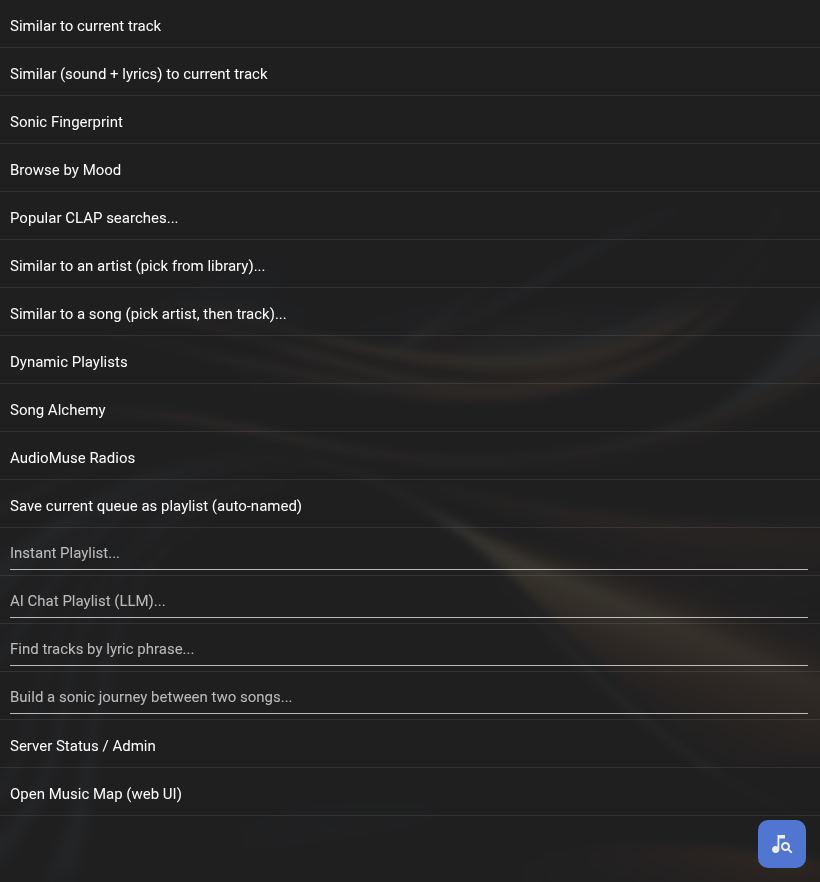
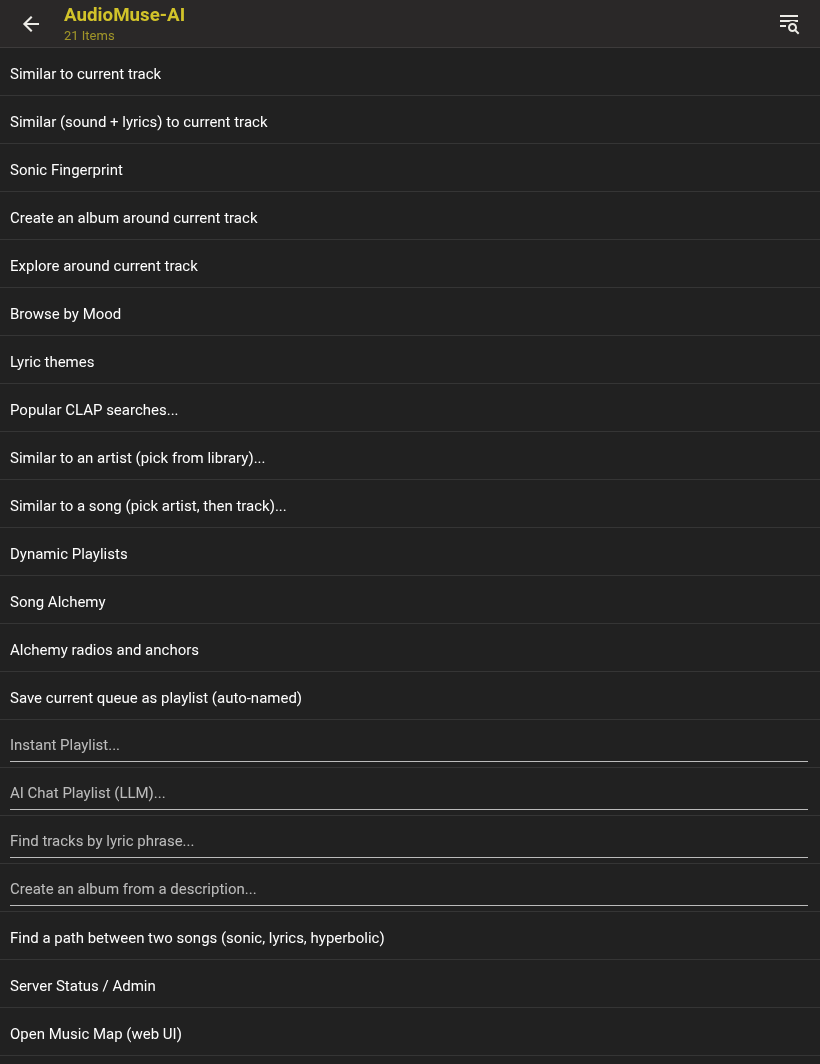
docs: screenshot refresh + gallery, contributing section, align advice
- Screenshots retaken for v0.6.x (Material menu + Explore, Browse by Mood,
  Sonic moods, Lyric themes, Dynamic Playlists, Song Alchemy, Find a path;
  the default web interface; the settings page). Cropped to the menu, plain
  background, sample values in the settings status panel - no player names,
  hostnames, token, artwork or library contents.
- README: screenshot gallery, and a "Bug reports, ideas & contributions"
  section thanking everyone who has reported, tested and contributed, with
  an apology for the slow responses.
- Troubleshooting: "Align music servers" alone fixes stale track ids (it took
  this library from 24% stale results to 0%); Cleaning isn't needed, and
  with "delete orphans" it permanently deletes analysed songs.
- tests/06-lms-e2e.py: if the test player was playing, put it back at the
  same track and position afterwards instead of leaving it stopped.

diff --git a/tests/06-lms-e2e.py b/tests/06-lms-e2e.py
@@ -2,7 +2,7 @@
 """End-to-end test of the AudioMuse-AI Lyrion plugin on a REAL player.
 
 Drives one player over Lyrion's JSON-RPC, saves/restores its state (queue,
-power, volume, Don't Stop The Music provider, dynamic mode), mutes it, and for
+playing position, power, volume, Don't Stop The Music provider, dynamic mode), mutes it, and for
 every plugin function checks: it responds, the queue changes as expected
 (load / append), and the resulting queue has no repeated track ids or songs.
 Also runs eight long auto-extend sessions (~150 tracks each: four menu
@@ -180,6 +180,9 @@ STALE_ID = ENV('E2E_STALE_ID', '')
 
 if __name__ == '__main__':
     state = rpc(['status', '-', '1', 'tags:'])
+    was_playing = state.get('mode') == 'play'
+    play_index = state.get('playlist_cur_index')
+    play_time = state.get('time')
     vol = rpc(['mixer', 'volume', '?']).get('_volume')
     power = state.get('power')
     dstm_prov = rpc(['playerpref', 'plugin.dontstopthemusic:provider', '?']).get('_p2')
@@ -314,6 +317,13 @@ if __name__ == '__main__':
         rpc(['playerpref', 'plugin.dontstopthemusic:provider', dstm_prov if dstm_prov else '0'])
         if power in (0, '0'):
             rpc(['power', '0'])
+        elif was_playing:
+            # Someone was listening: put them back where they were.
+            if play_index is not None:
+                rpc(['playlist', 'index', str(play_index)])
+            if play_time:
+                rpc(['time', str(play_time)])
+            rpc(['play'])
         if dyn_mode:
             rpc(['playerpref', 'plugin.audiomuseai:dstm_active', dyn_mode])
         print(f'restored player state (dynamic mode {dyn_mode!r})')

diff --git a/docs/TROUBLESHOOTING.md b/docs/TROUBLESHOOTING.md
@@ -6,7 +6,7 @@
 
 **Can't find the "AudioMuse: similar…" context-menu items in Material** — they're there, just under **More**. Material's long-press / **⋮** menu lists the common actions first (Play, Add to queue, Favourites…) and tucks plugin items into a **More** submenu. Path: long-press (or **⋮**) → **More** → *AudioMuse: …*. On the default web UI and iPeng they appear directly in the context menu.
 
-**Fewer tracks than requested, or "not analysed" on a song you know AudioMuse has** — AudioMuse remembers your tracks by the id Lyrion gave them when it analysed them. A Lyrion rescan / wipe-and-rescan renumbers tracks, and until AudioMuse re-maps them its ids point at tracks Lyrion no longer has (on a busy library this can be a quarter of results). Since v0.6.0 the plugin copes: it re-finds each stale result in your library by title + artist, and if AudioMuse doesn't know the id of the song you're seeding from, it looks the song up by title + artist and retries. `server.log` then says *"N result id(s) not in the Lyrion library (stale AudioMuse mapping...)"*. To fix it at the source, in AudioMuse-AI run **Setup → Music Servers → Align music servers** (or a per-server *Sweep*), then a **Cleaning** run with *delete orphans* enabled.
+**Fewer tracks than requested, or "not analysed" on a song you know AudioMuse has** — AudioMuse remembers your tracks by the id Lyrion gave them when it analysed them. A Lyrion rescan / wipe-and-rescan renumbers tracks, and until AudioMuse re-maps them its ids point at tracks Lyrion no longer has (on a busy library this can be a quarter of results). Since v0.6.0 the plugin copes: it re-finds each stale result in your library by title + artist, and if AudioMuse doesn't know the id of the song you're seeding from, it looks the song up by title + artist and retries. `server.log` then says *"N result id(s) not in the Lyrion library (stale AudioMuse mapping...)"*. To fix it at the source, in AudioMuse-AI run **Setup → Music Servers → Align music servers** (or a per-server *Sweep*): it re-matches your current Lyrion tracks to the analysed songs by file path and tags in a minute or two — no downloads or re-analysis — and drops the mappings Lyrion no longer has. It can run while an analysis is in progress. You don't need a **Cleaning** run for this; and note Cleaning with *delete orphans* permanently deletes analysed songs that no server currently has.
 
 **Test connection fails** — check the URL has a scheme, the token is correct, and Lyrion can reach the host. From the Lyrion box: `curl <url>/api/active_tasks`. If you've set **AudioMuse music server name**, Test connection also checks AudioMuse actually has a server by that name (case doesn't matter) and lists the ones it has if not.
 
@@ -25,7 +25,7 @@
 ## Limitations & gotchas
 
 - **Similarity needs clustering done.** Until analysis *and* clustering have completed once, `Similar to *` returns "Service not ready". CLAP-based features (Fingerprint, Instant, Mood) work after analysis alone.
-- **Track IDs drift after a Lyrion rescan.** See *Fewer tracks than requested* above — the plugin works around it, but an AudioMuse *Align music servers* run fixes it properly.
+- **Track IDs drift after a Lyrion rescan.** See *Fewer tracks than requested* above — the plugin works around it, but an AudioMuse *Align music servers* run fixes it properly (one took this maintainer's library from 24% stale results to 0%).
 - **Anti-repeat history is in memory.** The "recently played" list (1000 songs per player) resets when Lyrion restarts; songs already in the queue are always excluded regardless.
 - **Album Creation** needs AudioMuse v3.6.2 with MusiCNN, DCLAP and lyrics analysis all enabled; **Explore** needs the hyperbolic index (an analysis run on v3.3+). Otherwise those items explain what's missing.
 - **Recent prompts** are remembered per-player but no longer surface in a menu (simplified for Squeezer compatibility). Still readable via the `audiomuseai menu_instant` JSON-RPC command.

diff --git a/README.md b/README.md
@@ -75,6 +75,21 @@ Browse to **any** artist, track, or album the normal way and open its context me
 
 > On **Material**, these sit under **More** in the context menu — see [docs/USAGE.md](docs/USAGE.md#context-menu).
 
+## Screenshots
+
+| | |
+|---|---|
+| <img src="docs/images/explore.png" alt="Explore around current track: close neighbours, roots, niche" width="400"> | <img src="docs/images/sonic-moods.png" alt="Sonic moods: AudioMuse's analysed mood clusters" width="400"> |
+| **Explore around current track** — the hyperbolic map | **Sonic moods** — AudioMuse's own mood clusters |
+| <img src="docs/images/mood.png" alt="Browse by Mood presets" width="400"> | <img src="docs/images/lyric-themes.png" alt="Lyric themes: emotional valence labels" width="400"> |
+| **Browse by Mood** | **Lyric themes** |
+| <img src="docs/images/dynamic.png" alt="Dynamic Playlists auto-extend modes" width="400"> | <img src="docs/images/alchemy.png" alt="Song Alchemy menu" width="400"> |
+| **Dynamic Playlists** (no-repeat auto-extend) | **Song Alchemy** — tracks, artists, playlists, anchors |
+| <img src="docs/images/findpath.png" alt="Find a path: sonic, lyrics + sound, hyperbolic journey" width="400"> | <img src="docs/images/web-ui.png" alt="The plugin in Lyrion's default web interface" width="400"> |
+| **Find a path** between two songs | Lyrion's **default web interface** |
+
+Settings page: [docs/SETTINGS.md](docs/SETTINGS.md).
+
 ## Documentation
 
 | Doc | Covers |
@@ -83,6 +98,15 @@ Browse to **any** artist, track, or album the normal way and open its context me
 | **[Settings](docs/SETTINGS.md)** | All settings, auto-name strategies, Don't Stop The Music, per-player overrides. |
 | **[CLI / JSON-RPC](docs/CLI.md)** | Drive every action from scripts, Home Assistant, or Material custom buttons. |
 | **[Troubleshooting](docs/TROUBLESHOOTING.md)** | Common issues, limitations, manual install. |
+
+## Bug reports, ideas & contributions
+
+All welcome:
+
+- **Found a bug or have an idea?** [Open an issue](https://github.com/JameZUK/lyrion-audiomuseai-plugin/issues). For bugs, it helps to include your Lyrion and AudioMuse-AI versions, which controller you use (Material, Squeezer, web UI...), and any `plugin.audiomuseai` lines from Lyrion's `server.log`.
+- **Pull requests** are very welcome too. `tests/run-all.sh` runs the offline checks (plus live API checks if you set up `tests/.env` — see [tests/README.md](tests/README.md)); please keep it passing and add a test for anything you change.
+
+A big thank you to everyone who has reported issues, suggested features, tested builds and sent pull requests — and apologies for the slow responses at times. This is a spare-time project fitted around a day job, so replies can lag, but every report is read and appreciated.
 
 ## License
 

diff --git a/docs/USAGE.md b/docs/USAGE.md
@@ -8,6 +8,9 @@ Entries are ordered by how often you'll reach for them.
 
 ### One-tap actions
 
+<p align="center"><img src="images/menu.png" alt="The AudioMuse-AI menu in Material" width="520"></p>
+
+
 | Item | What it does | Needs |
 |---|---|---|
 | **Similar to current track** | Queues tracks sonically similar to whatever's playing now (audio only). | Clustering done. |
@@ -56,6 +59,9 @@ These need an on-screen keyboard, and work on every controller (web UI, Material
 
 ### Concept steering
 
+<p align="center"><img src="images/mood.png" alt="Browse by Mood, with Sonic moods and Steering concepts" width="520"></p>
+
+
 AudioMuse v3.5.1+ lets you push an Instant Playlist toward (or away from) specific musical concepts. Put the concepts after a `|`, comma-separated:
 
 ```
@@ -92,6 +98,9 @@ This gives you Lyrion's native filter / letter-jump for free — often the faste
 
 ### Auto-extend
 
+<p align="center"><img src="images/dynamic.png" alt="Dynamic Playlists modes" width="520"></p>
+
+
 Two ways to keep the queue topped up automatically:
 
 1. **Native Don't Stop The Music** *(recommended)* — Player Settings → Audio → **Don't Stop The Music** → pick one of **AudioMuse-AI: Similar to recent tracks**, **Lyrics + sound mix (SemGrove)**, **Mix by recent album (broader)** or **Sonic fingerprint**. LMS tops up the queue as it nears the end, exactly like MusicIP / SugarCube. Per-player. (With only one track in the queue, Lyrion itself waits until that track is half played before topping up.)
@@ -113,7 +122,7 @@ It asks AudioMuse for extra candidates so a full batch survives the filtering, a
 
 | Controller | Status |
 |---|---|
-| **Default Lyrion web UI** | Full feature set since v0.6.1: **Home → My Music → AudioMuse-AI** (next to Random Mix), with the typed features (Instant Playlist, AI Chat, lyrics, album from a description, artist / Find Path searches) as search boxes, and the AudioMuse entries on track / artist / album information pages. Pick a player at the top right first. Refreshing a result page won't queue the same playlist twice. |
+| **Default Lyrion web UI** ([screenshot](images/web-ui.png)) | Full feature set since v0.6.1: **Home → My Music → AudioMuse-AI** (next to Random Mix), with the typed features (Instant Playlist, AI Chat, lyrics, album from a description, artist / Find Path searches) as search boxes, and the AudioMuse entries on track / artist / album information pages. Pick a player at the top right first. Refreshing a result page won't queue the same playlist twice. |
 | **Material Skin** | Full feature set. The settings status panel is theme-aware (works on light and dark). |
 | **iPeng** | Full feature set. |
 | **Squeezer (Android)** | Full feature set, including text-input items. |

diff --git a/docs/SETTINGS.md b/docs/SETTINGS.md
@@ -2,6 +2,8 @@
 
 **Settings → Plugins → AudioMuse-AI.**
 
+<p align="center"><img src="images/settings.png" alt="The AudioMuse-AI settings page with the server status panel" width="640"></p>
+
 | Setting | What it does |
 |---|---|
 | **Server URL** | Where AudioMuse-AI is running. `http://` is auto-prefixed; trailing slashes are stripped. |
